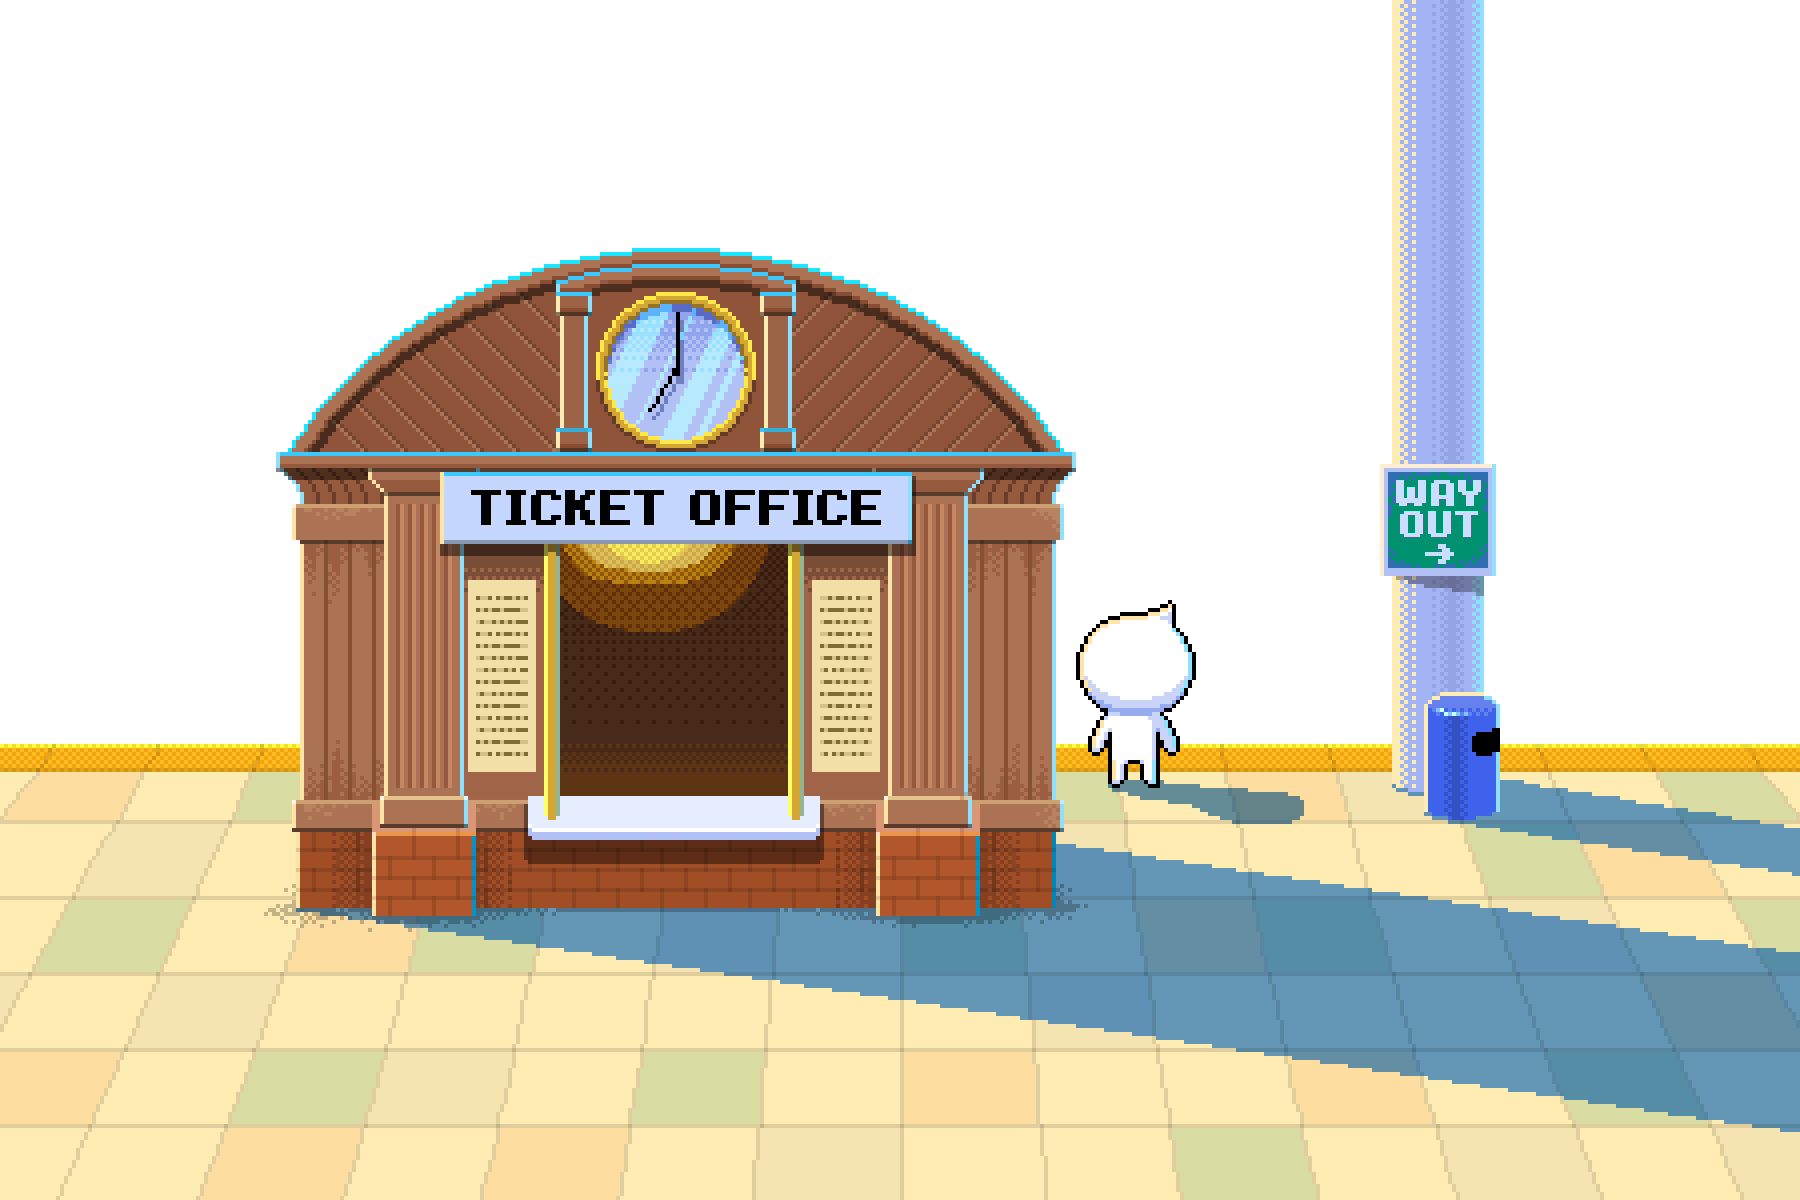
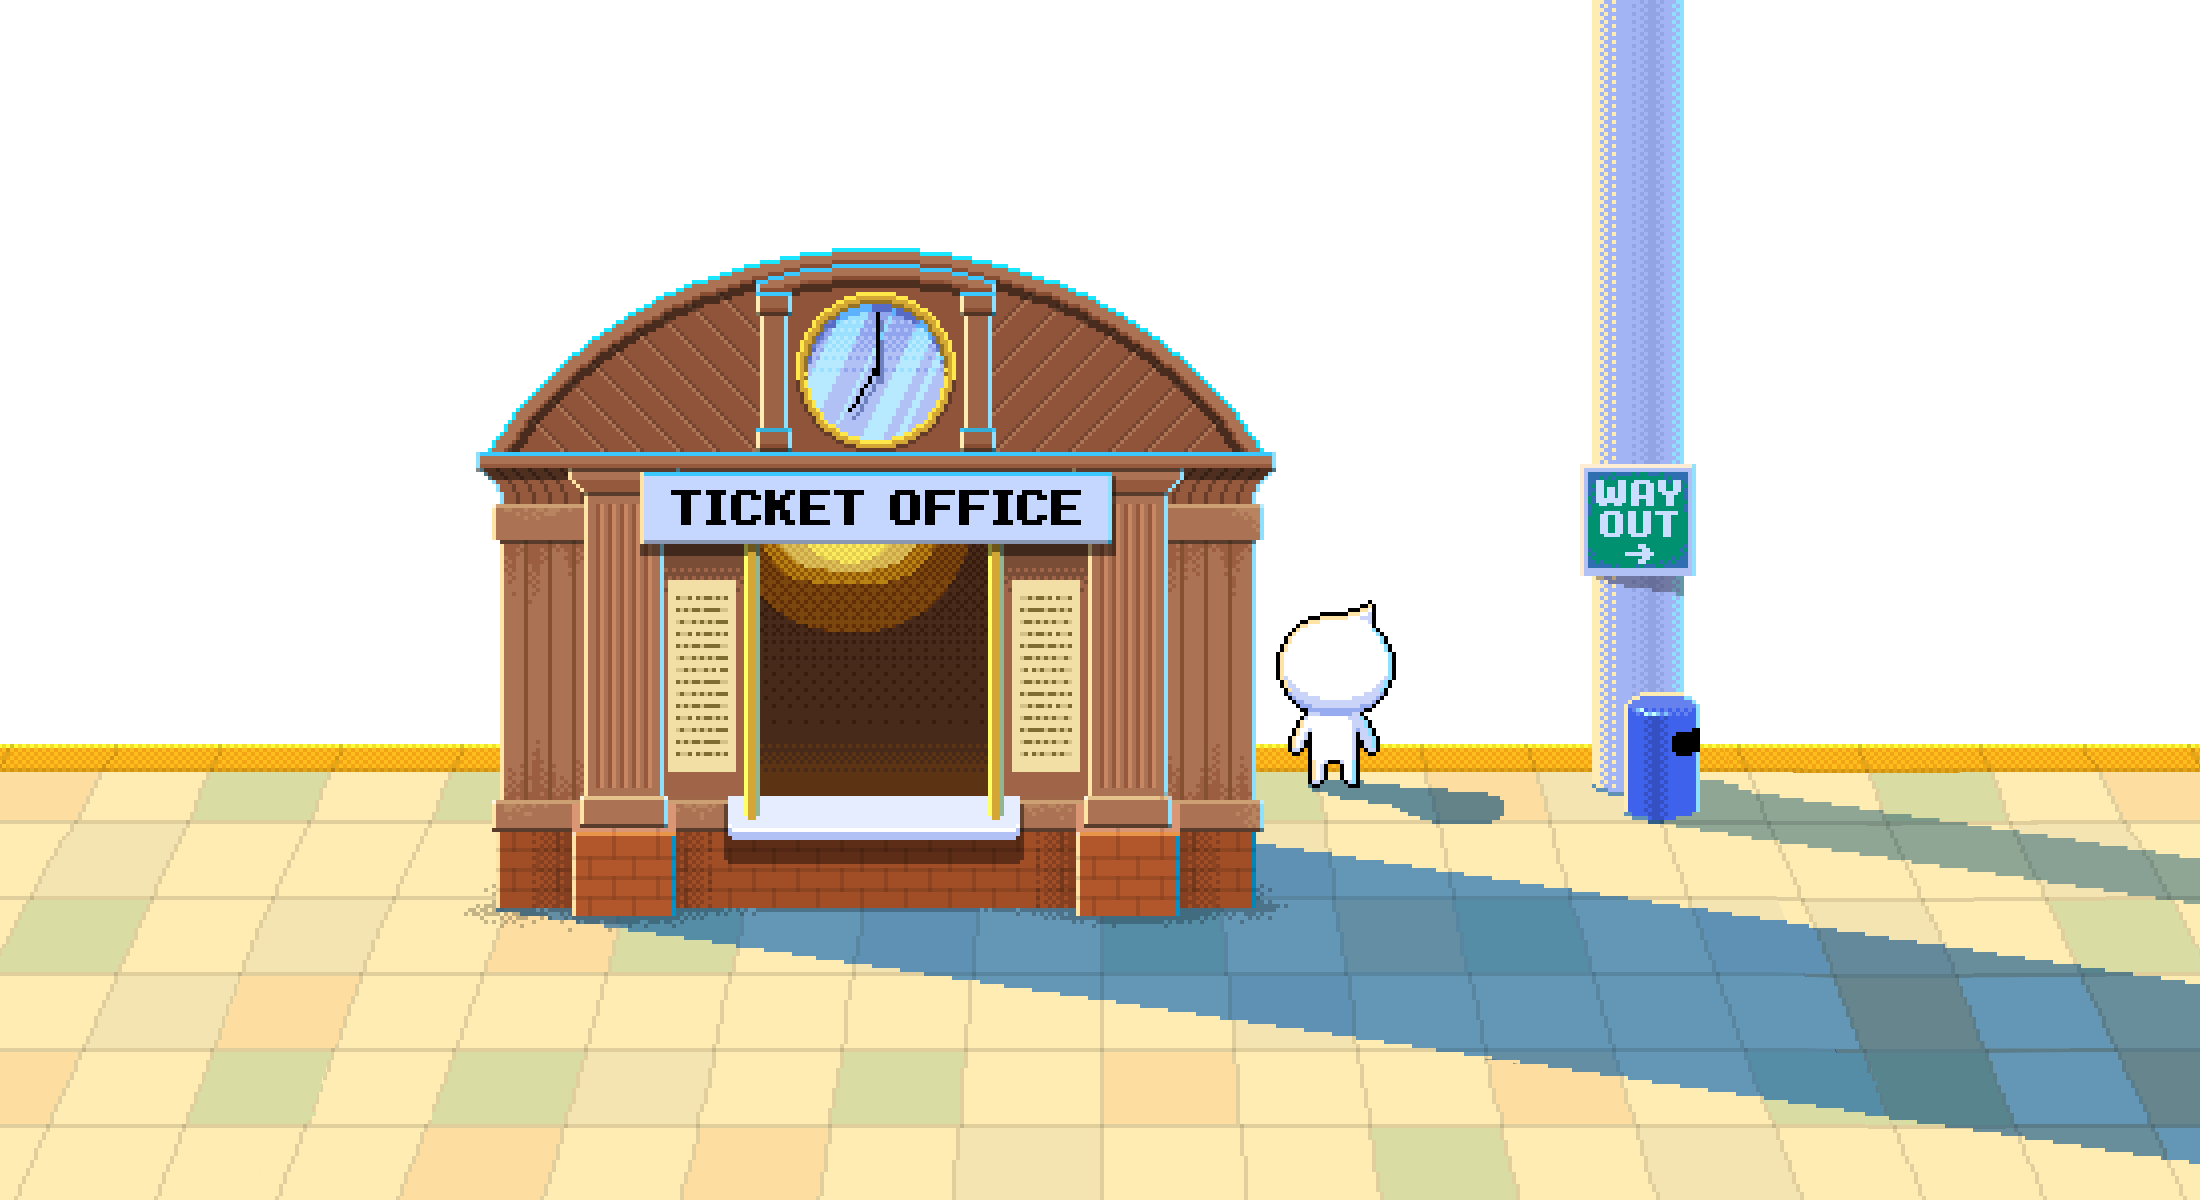
fix: extra space and zooming

diff --git a/src/components/Screen/Station.vue b/src/components/Screen/Station.vue
@@ -29,8 +29,8 @@ const zoomFactor = computed(() => {
 const sky = reactive<Asset>({
   loaded: false,
   alias: 'stationSky',
-  states: [{ x: 0, y: -305, scale: 1, alpha: 1, time: 0 }],
-  state: { x: 0, y: -305, scale: 1, alpha: 1, time: 0 },
+  states: [{ x: 0, y: 305, scale: 1, alpha: 1, time: 0 }],
+  state: { x: 0, y: 305, scale: 1, alpha: 1, time: 0 },
   animation: 'init',
 })
 
@@ -98,22 +98,22 @@ useTimeoutFn(() => {
     <CharacterStationMaster :state="characterStationMaster.state" place="station" />
     <Pigeon v-for="({ x, y, scale, flip }, index) in pegion" :key="index" :x="x" :y="y" :scale="scale" :flip="flip" />
   </Container>
-  <Container v-if="!rotationStop" :x="screenWidth / 2" :y="screenHeight / 2" :scale="1">
+  <Container :renderable="!rotationStop" :x="screenWidth / 2" :y="screenHeight / 2" :scale="1">
     <Scene1 v-if="currentPopupIndex === 5" />
     <Scene2 v-else-if="currentPopupIndex === 6" />
   </Container>
   <!-- DEBUG -->
-  <!-- <External>
-        <div class="flex items-center absolute gap-8 bottom-0 right-0 z-50 w-fit">
-          <div class="flex flex-col gap-2">
-            <input v-model="sky.state.x" type="number" min="-10000" max="10000" step="10" />
-            <input v-model="sky.state.y" type="number" min="-10000" max="10000" step="10" />
-            <input v-model="sky.state.scale" type="number" min="0" max="10" step="0.01" />
-          </div>
-             <div class="flex flex-col gap-2">
-            <input v-model="charactersGeneric[0][0].x" type="number" min="-10000" max="10000" step="10" />
-            <input v-model="charactersGeneric[0][0].y" type="number" min="-10000" max="10000" step="10" />
-          </div> 
-        </div>
-      </External> -->
+  <External>
+    <div class="flex items-center absolute gap-8 bottom-0 right-0 z-50 w-fit">
+      <div class="flex flex-col gap-2">
+        <input v-model="sky.state.x" type="number" min="-10000" max="10000" step="10" />
+        <input v-model="sky.state.y" type="number" min="-10000" max="10000" step="10" />
+        <input v-model="sky.state.scale" type="number" min="0" max="10" step="0.01" />
+      </div>
+      <!--  <div class="flex flex-col gap-2">
+        <input v-model="charactersGeneric[0][0].x" type="number" min="-10000" max="10000" step="10" />
+        <input v-model="charactersGeneric[0][0].y" type="number" min="-10000" max="10000" step="10" />
+      </div> -->
+    </div>
+  </External>
 </template>

diff --git a/src/components/Screen/Map.vue b/src/components/Screen/Map.vue
@@ -78,22 +78,20 @@ const screen = reactive<Asset>({
     { x: -565, y: -1090.8683596236826, scale: 2.01, alpha: 1, time: 32.79 },
     { x: -610, y: -1090.8683596236826 + 50, scale: 2.01, alpha: 1, time: 33.24 - 0.1 },
     { x: -610, y: -1632.8683596236826 + 50, scale: 2.01, alpha: 1, time: 38.66 - 0.1 },
-
     { x: -730, y: -1632.8683596236826 + 50, scale: 2.01, alpha: 1, time: 39.86 },
-
     // at bank 21
     { x: -1090, y: -1632.8683596236826, scale: 2.01, alpha: 1, time: 43.46 },
     { x: -1090, y: -1872.8683596236826, scale: 2.01, alpha: 1, time: 45.86 },
     // at pond 23
     { x: -995, y: -1937.8683596236826, scale: 2.01, alpha: 1, time: 47.015 },
-    { x: -890, y: -1890 + 15, scale: 1.92, alpha: 1, time: 54.0175 },
+    { x: -890, y: -1890, scale: 1.85, alpha: 1, time: 54.0175 },
     // loop ends 25
     { x: -1085, y: -1922.8683596236826, scale: 2.01, alpha: 1, time: 55.7625 },
     { x: -1085, y: -2162.8683596236824, scale: 2.01, alpha: 1, time: 58.1625 },
     { x: -850, y: -2162.8683596236824, scale: 2.01, time: 60.5125, alpha: 1 },
     { x: -850, y: -2340, scale: 2.01, time: 62.9125, alpha: 1 },
     { x: -90, y: -2340, scale: 2.01, time: 70.5125, alpha: 1 },
-    { x: -90, y: -2520, scale: 1.64, time: 71.5125, alpha: 1 },
+    { x: -90, y: -2520 - 30, scale: 1.64, time: 71.5125, alpha: 1 },
     // stop for the ballon 31
     { x: -930, y: -2555, scale: 1.64, time: 79.0625, alpha: 1 },
     { x: -1000, y: -2555, scale: 1.64, time: 84.1225, alpha: 1 },
@@ -530,7 +528,7 @@ onTick((delta) => {
 watch(
   () => screen.animation,
   () => {
-    if (currentSceneIndex.value === 5 && screen.animation === 'finished') {
+    if (currentSceneIndex.value === 5 && currentPopupIndex.value === -1 && screen.animation === 'finished') {
       gameStore.nextTimeline({ id: 7 })
     }
   }
@@ -626,7 +624,7 @@ function handleResponse(value: number) {
         :y="mapHeight *  screen.state.scale * y" :scale="0.5" :direction="direction" :width-range="mapWidth" /> -->
   </Container>
   <!-- DEBUG -->
-  <!--   <External>
+  <!-- <External>
     <div class="fixed left-1/2 top-1/2 size-1 -translate-x-1/2 -translate-y-1/2 bg-red-500" />
     <div class="fixed bottom-0 left-0 z-50 flex w-fit items-center gap-8">
       <div class="flex flex-col gap-2">

diff --git a/src/components/Screen/Park.vue b/src/components/Screen/Park.vue
@@ -67,9 +67,12 @@ onBeforeMount(onLoad)
 
 <template>
   <Container :x="screenWidth / 2" :y="screenHeight / 2" :scale="1 * zoomFactor">
-    <Sprite :texture="park.alias.bg" :texture-options="textureOptions" :x="park.state.x" :y="park.state.y - 400" :scale="park.state.scale" :anchor="0.5" />
-    <Cloud v-for="({ size, x, y, direction }, index) in clouds" :key="index" place="park" :width-range="screenWidth" :size="size" :x="x" :y="y" :scale="1" :direction="direction" />
-    <Sprite :texture="park.alias.fg" :texture-options="textureOptions" :x="park.state.x" :y="park.state.y" :scale="park.state.scale" :anchor="0.5" />
+    <Sprite :texture="park.alias.bg" :texture-options="textureOptions" :x="park.state.x" :y="park.state.y - 400"
+      :scale="park.state.scale * 1.225" :anchor="0.5" />
+    <Cloud v-for="({ size, x, y, direction }, index) in clouds" :key="index" place="park" :width-range="screenWidth"
+      :size="size" :x="x" :y="y" :scale="1" :direction="direction" />
+    <Sprite :texture="park.alias.fg" :texture-options="textureOptions" :x="park.state.x" :y="park.state.y"
+      :scale="park.state.scale" :anchor="0.5" />
     <Pigeon v-for="({ x, y, scale, flip }, index) in pigeons" :key="index" :x="x" :y="y" :scale="scale" :flip="flip" />
   </Container>
   <Container v-if="!rotationStop" :x="screenWidth / 2" :y="screenHeight / 2" :scale="1">

diff --git a/src/App.vue b/src/App.vue
@@ -64,8 +64,8 @@ const images = computed(() => (isMobile.value ? resources.imageSm : resources.im
   </Application>
   <!-- DEBUG -->
   <div class="fixed left-0 top-0 z-[99999] flex flex-col gap-2 bg-white p-2">
-    <p>v0.3.33</p>
-<!--     <p>TimelineIndex: {{ gameStore.timelineIndex }}</p>
+    <p>v0.3.34</p>
+    <!--  <p>TimelineIndex: {{ gameStore.timelineIndex }}</p>
     <p>ScreenIndex: {{ gameStore.currentScreenIndex }}</p>
     <p>PopupIndex: {{ gameStore.currentPopupIndex }}</p>
     <p>SceneIndex: {{ gameStore.currentSceneIndex }}</p>
